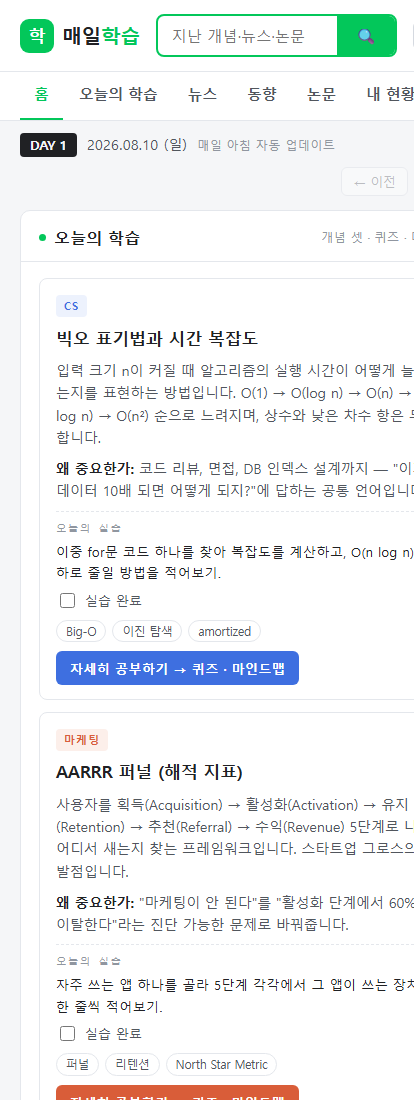
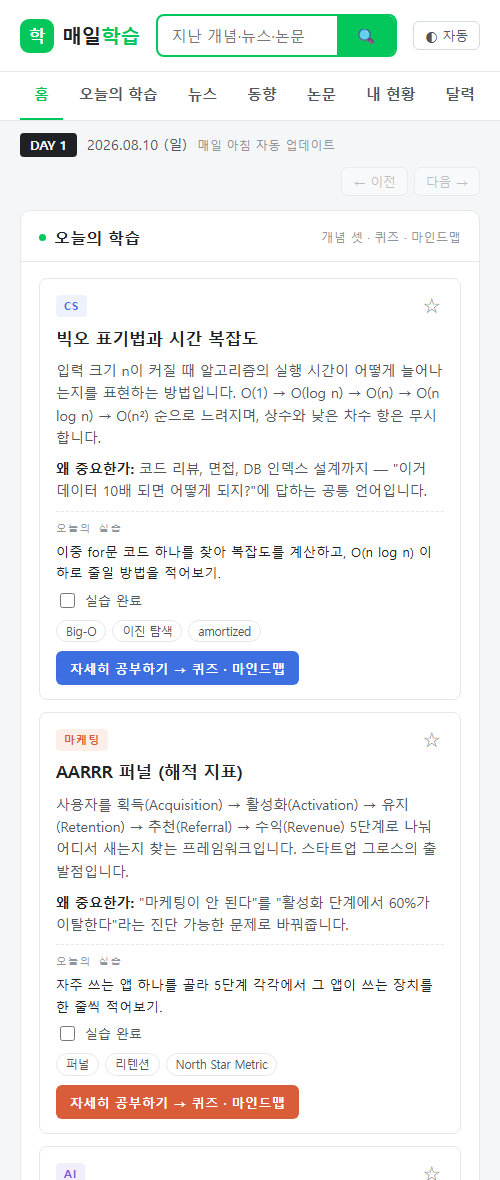
README 모바일 캡처 교체 — 우측 잘림 수정

diff --git a/README.md b/README.md
@@ -19,10 +19,10 @@
 
 ![상세 화면](docs/assets/screenshot-detail.png)
 
-### 모바일
+### 좁은 화면 · 모바일
 사이드바가 아래로 접히는 1단 반응형 레이아웃.
 
-<img src="docs/assets/screenshot-mobile.png" width="360" alt="모바일 화면">
+<img src="docs/assets/screenshot-mobile.png" width="380" alt="모바일 화면">
 
 ## ✨ 주요 기능
 
